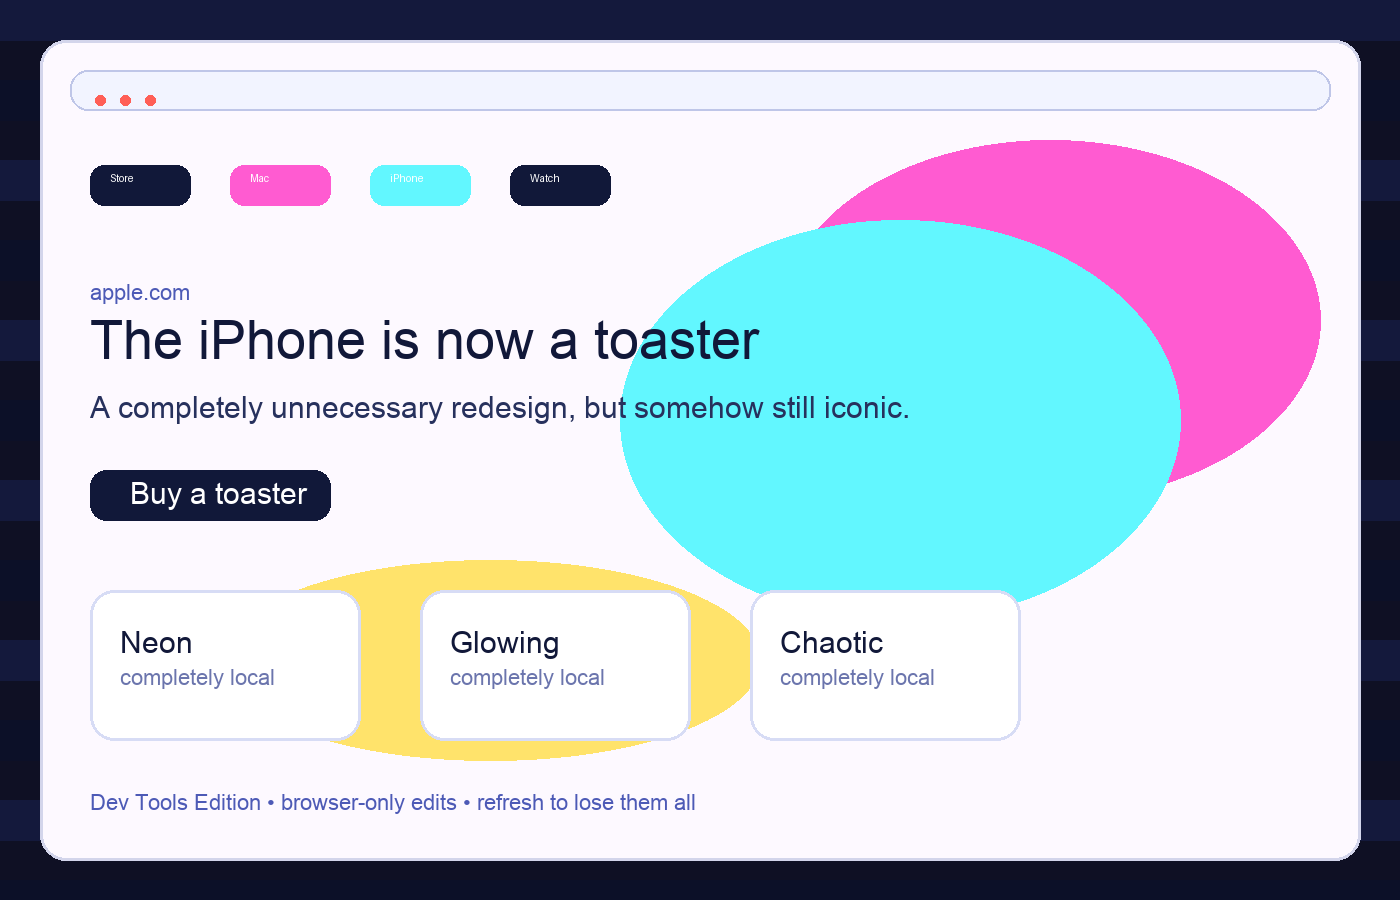
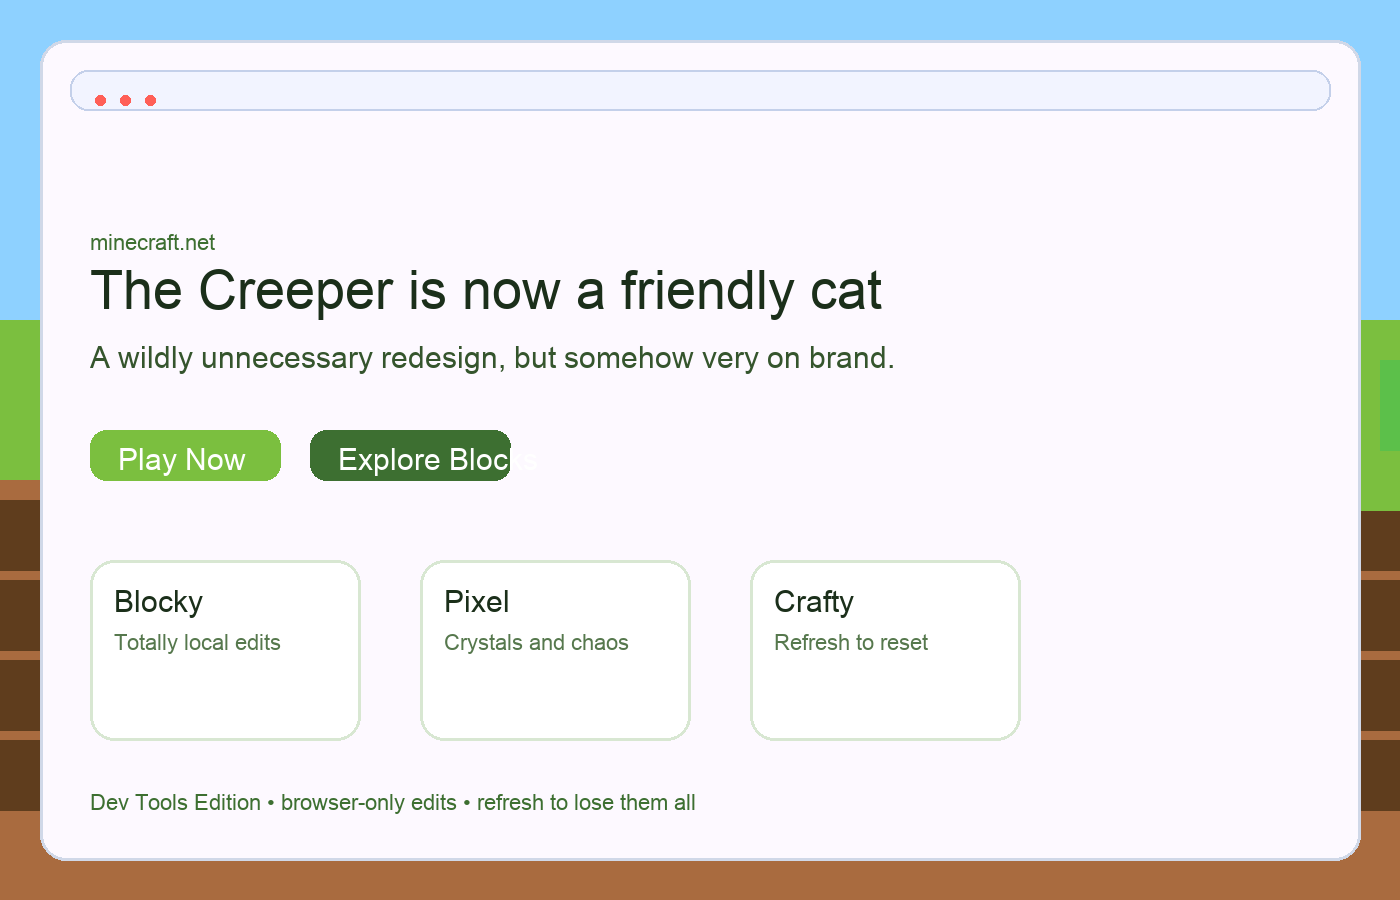
Switch Week 04 exercise to Minecraft theme

diff --git a/week-04-exercise-01/style.css b/week-04-exercise-01/style.css
@@ -1,10 +1,10 @@
 :root {
     color-scheme: dark;
-    --bg: #070b1f;
-    --panel: #111839;
+    --bg: #0c2610;
+    --panel: #173a1e;
     --text: #f7f8ff;
-    --accent: #ff5bd1;
-    --accent-2: #62f7ff;
+    --accent: #7bbf3f;
+    --accent-2: #d7ff8a;
 }
 
 * {
@@ -14,7 +14,7 @@
 body {
     margin: 0;
     font-family: "Trebuchet MS", "Segoe UI", sans-serif;
-    background: linear-gradient(135deg, var(--bg), #1d2b7a 60%, #2c0f61);
+    background: linear-gradient(135deg, var(--bg), #2d6b2f 60%, #0f3f1f);
     color: var(--text);
     line-height: 1.6;
 }
@@ -52,7 +52,7 @@ h1 {
     padding: 0.8rem 1.2rem;
     border-radius: 999px;
     background: var(--accent);
-    color: #080511;
+    color: #081208;
     text-decoration: none;
     font-weight: 700;
 }
@@ -63,7 +63,7 @@ h1 {
 
 .description,
 .screenshot-card {
-    background: rgba(17, 24, 57, 0.95);
+    background: rgba(23, 58, 30, 0.95);
     border: 2px solid rgba(255, 255, 255, 0.12);
     border-radius: 1.5rem;
     box-shadow: 0 20px 60px rgba(0, 0, 0, 0.25);
@@ -88,6 +88,6 @@ h1 {
 
 figcaption {
     margin-top: 0.8rem;
-    color: #c7d2ff;
+    color: #d7ff8a;
     font-size: 0.95rem;
 }

diff --git a/week-04-exercise-01/index.html b/week-04-exercise-01/index.html
@@ -11,7 +11,7 @@
             <p class="eyebrow">Week 04 Exercise 01</p>
             <h1>Dev Tools Vandalism</h1>
             <p>
-                I visited the Apple homepage and used browser developer tools to
+                I visited the Minecraft homepage and used browser developer tools to
                 replace the headline with something silly, then changed the page
                 colors and typography for a wonderfully chaotic look.
             </p>
@@ -22,20 +22,20 @@
             <section class="description">
                 <h2>What I changed</h2>
                 <p>
-                    I edited the hero text to read, “The iPhone is now a toaster,”
+                    I edited the hero text to read, “The Creeper is now a friendly cat,”
                     and I adjusted the background, text color, and font size so the
                     page looked bright, playful, and unmistakably vandalized.
                 </p>
                 <p>
-                    The screenshot below shows the modified Apple homepage with a neon,
-                    over-the-top makeover applied locally in the browser.
+                    The screenshot below shows the modified Minecraft-inspired homepage
+                    with a blocky, over-the-top makeover applied locally in the browser.
                 </p>
             </section>
 
             <figure class="screenshot-card">
                 <img
                     src="devtools-vandalism-screenshot.png"
-                    alt="A screenshot of a modified homepage with a silly headline and bright neon colors"
+                    alt="A screenshot of a modified Minecraft-style homepage with a silly headline and bright green colors"
                 />
                 <figcaption>
                     Screenshot captured after live editing in browser dev tools.

diff --git a/week-04-exercise-01/generate_screenshot.py b/week-04-exercise-01/generate_screenshot.py
@@ -2,40 +2,37 @@ from pathlib import Path
 from PIL import Image, ImageDraw, ImageFont
 
 width, height = 1400, 900
-img = Image.new('RGB', (width, height), '#0f1024')
+img = Image.new('RGB', (width, height), '#8ed1ff')
 draw = ImageDraw.Draw(img)
 
-for y in range(0, height, 80):
-    fill = (20, 25, 60) if y % 160 == 0 else (12, 16, 40)
-    draw.rectangle([0, y, width, y + 40], fill=fill)
+# sky and ground
+for y in range(height):
+    if y < 320:
+        draw.line([(0, y), (width, y)], fill='#8ed1ff')
+    elif y < 480:
+        draw.line([(0, y), (width, y)], fill='#7bbf3f')
+    else:
+        draw.line([(0, y), (width, y)], fill='#a96b3f')
+
+# blocky landscape
+for x in range(0, width, 80):
+    for y in range(500, 760, 80):
+        draw.rectangle((x, y, x + 70, y + 70), fill='#5f3d1d')
+
+for x in range(40, width, 120):
+    draw.rectangle((x, 420, x + 90, 510), fill='#7bbf3f')
+    draw.rectangle((x + 20, 360, x + 110, 450), fill='#5cc04a')
 
 # browser window
 for x0, y0, x1, y1 in [(40, 40, width - 40, height - 40)]:
-    draw.rounded_rectangle((x0, y0, x1, y1), radius=26, fill='#fdf9ff', outline='#d3d5eb', width=3)
+    draw.rounded_rectangle((x0, y0, x1, y1), radius=26, fill='#fdf9ff', outline='#d0d8e8', width=3)
 
 # address bar
-for x0, y0, x1, y1 in [(70, 70, width - 70, 110)]:
-    draw.rounded_rectangle((x0, y0, x1, y1), radius=18, fill='#f2f4ff', outline='#bfc6e8', width=2)
-
+draw.rounded_rectangle((70, 70, width - 70, 110), radius=18, fill='#f2f4ff', outline='#c4d0ea', width=2)
 for x, y in [(95, 95), (120, 95), (145, 95)]:
     draw.ellipse((x, y, x + 10, y + 10), fill='#ff5f57')
-for x, y in [(120, 95), (145, 95)]:
-    pass
 
-# giant blobs
-for x0, y0, x1, y1, color in [
-    (780, 140, 1320, 500, '#ff5bd1'),
-    (620, 220, 1180, 620, '#62f7ff'),
-    (220, 560, 760, 760, '#ffe36b'),
-]:
-    draw.ellipse((x0, y0, x1, y1), fill=color)
-
-# nav pills
-for i, label in enumerate(['Store', 'Mac', 'iPhone', 'Watch']):
-    x = 90 + i * 140
-    draw.rounded_rectangle((x, 165, x + 100, 205), radius=14, fill=['#111839', '#ff5bd1', '#62f7ff', '#111839'][i % 4])
-    draw.text((x + 20, 172), label, fill='white')
-
+# title and headline
 try:
     font_title = ImageFont.truetype('/Library/Fonts/Arial.ttf', 54)
     font_body = ImageFont.truetype('/Library/Fonts/Arial.ttf', 30)
@@ -45,31 +42,33 @@ except Exception:
     font_body = ImageFont.load_default()
     font_small = ImageFont.load_default()
 
-headline = 'The iPhone is now a toaster'
-sub = 'A completely unnecessary redesign, but somehow still iconic.'
+headline = 'The Creeper is now a friendly cat'
+sub = 'A wildly unnecessary redesign, but somehow very on brand.'
 
-text_color = '#111839'
-draw.text((90, 280), 'apple.com', font=font_small, fill='#4d5ab6')
-draw.text((90, 310), headline, font=font_title, fill=text_color)
-draw.text((90, 390), sub, font=font_body, fill='#27315d')
+draw.text((90, 230), 'minecraft.net', font=font_small, fill='#3d6f31')
+draw.text((90, 260), headline, font=font_title, fill='#1b2f1a')
+draw.text((90, 340), sub, font=font_body, fill='#35552d')
 
-button = (90, 470, 330, 520)
-draw.rounded_rectangle(button, radius=16, fill='#111839')
-draw.text((130, 476), 'Buy a toaster', font=font_body, fill='white')
-
-for rect in [
-    (90, 590, 360, 740),
-    (420, 590, 690, 740),
-    (750, 590, 1020, 740),
+# buttons
+for x0, y0, x1, y1, color, text in [
+    (90, 430, 280, 480, '#7bbf3f', 'Play Now'),
+    (310, 430, 510, 480, '#3d6f31', 'Explore Blocks'),
 ]:
-    draw.rounded_rectangle(rect, radius=24, fill='white', outline='#d7dcf5', width=3)
+    draw.rounded_rectangle((x0, y0, x1, y1), radius=16, fill=color)
+    draw.text((x0 + 28, y0 + 12), text, font=font_body, fill='white')
 
-for x, y, label in [(120, 625, 'Neon'), (450, 625, 'Glowing'), (780, 625, 'Chaotic')]:
-    draw.text((x, y), label, font=font_body, fill='#111839')
-    draw.text((x, y + 40), 'completely local', font=font_small, fill='#6b75ad')
+# cards
+for x0, y0, x1, y1, title, blurb in [
+    (90, 560, 360, 740, 'Blocky', 'Totally local edits'),
+    (420, 560, 690, 740, 'Pixel', 'Crystals and chaos'),
+    (750, 560, 1020, 740, 'Crafty', 'Refresh to reset'),
+]:
+    draw.rounded_rectangle((x0, y0, x1, y1), radius=24, fill='white', outline='#d8e7d2', width=3)
+    draw.text((x0 + 24, y0 + 24), title, font=font_body, fill='#1b2f1a')
+    draw.text((x0 + 24, y0 + 70), blurb, font=font_small, fill='#56784d')
 
 footer = 'Dev Tools Edition • browser-only edits • refresh to lose them all'
-draw.text((90, 790), footer, font=font_small, fill='#4d5ab6')
+draw.text((90, 790), footer, font=font_small, fill='#3d6f31')
 
 out_path = Path('devtools-vandalism-screenshot.png')
 img.save(out_path)